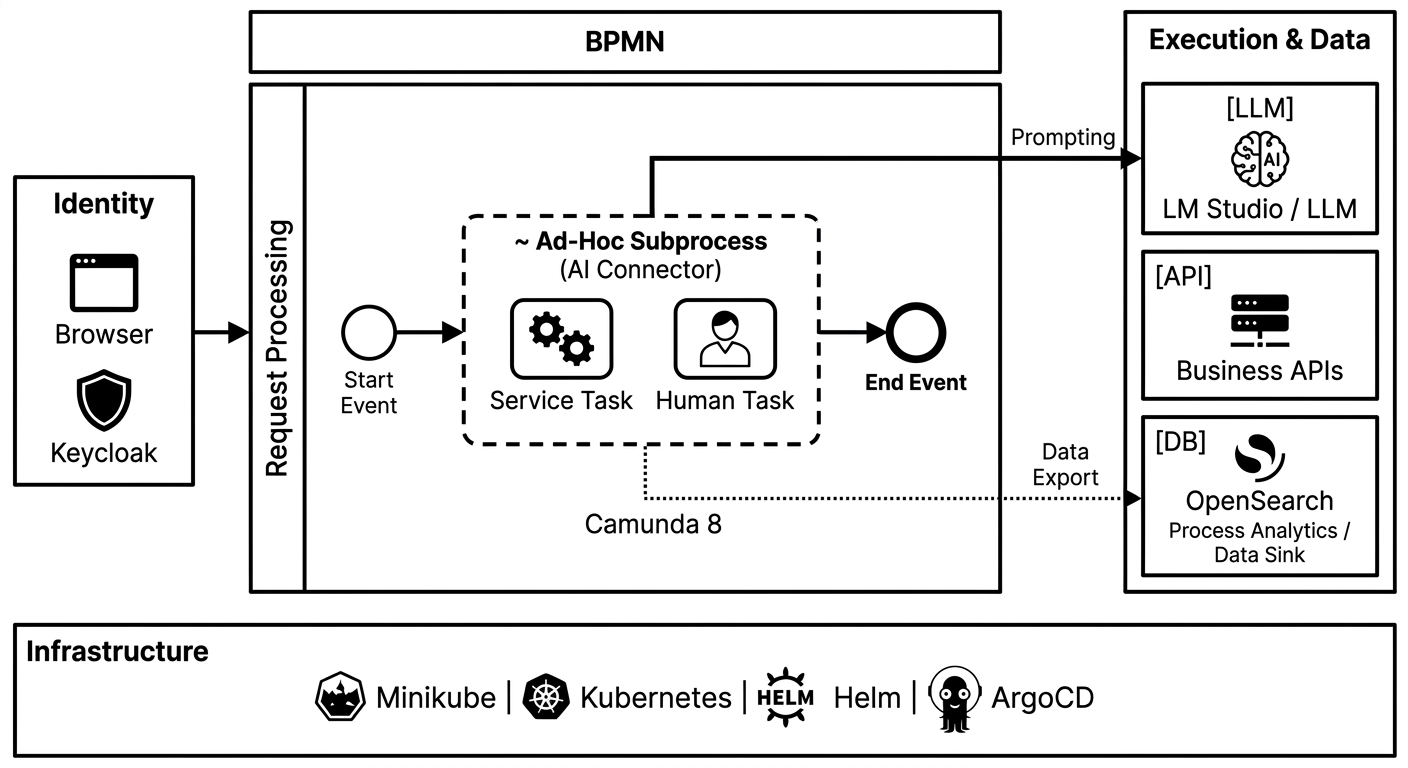
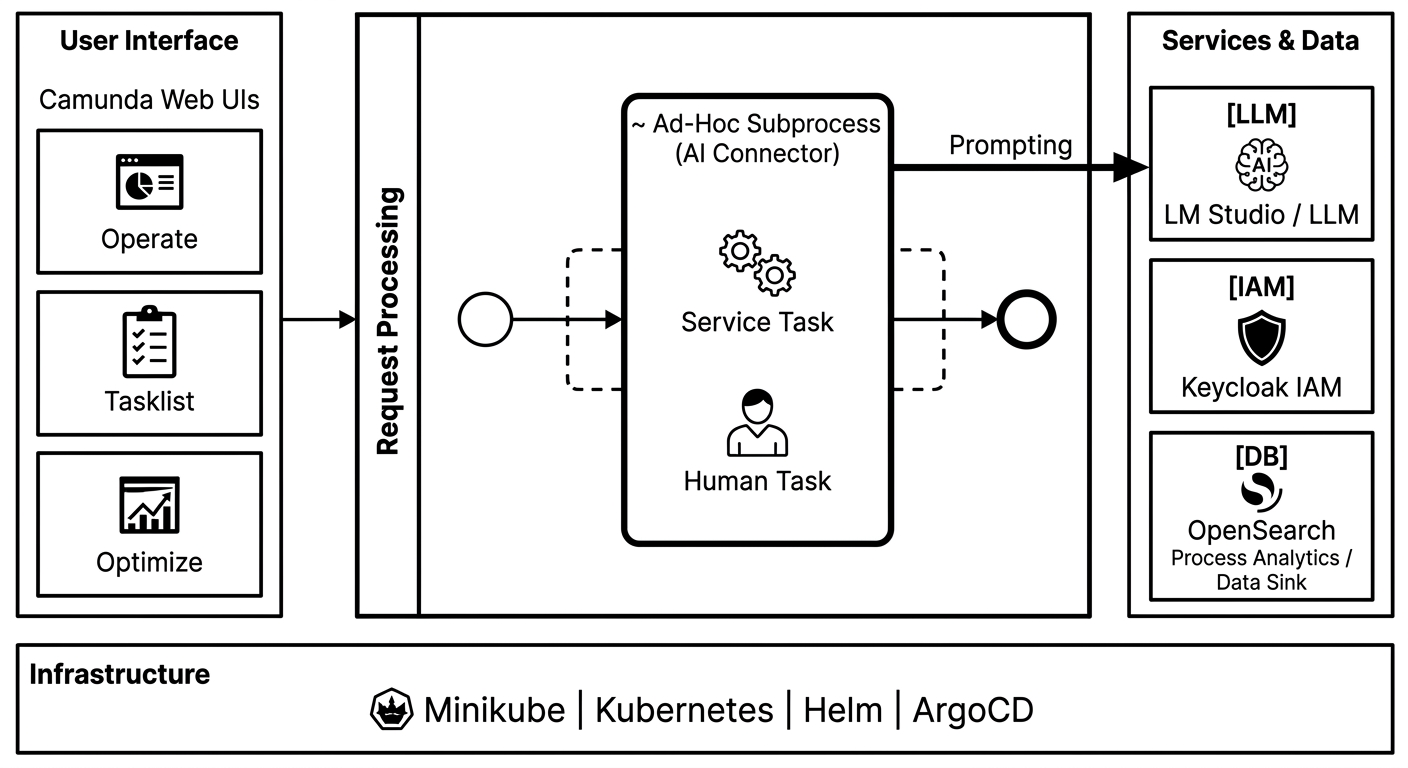
docs: refine reference architecture diagram

Changed region(s): [[0.0, 0.0, 1.0, 1.0]]

diff --git a/README.md b/README.md
@@ -12,7 +12,6 @@ The **Enterprise-Process-AI-Stack** is a reference architecture designed for hig
 This project showcases the integration of traditional process governance with modern Agentic AI, optimized for local or air-gapped environments to ensure maximum security.
 
 ![Target Architecture](docs/architecture/target_architecture.png)
-> *Note: This diagram was generated using a structured prompt found in `/docs/architecture`. It reflects the current state of the Agentic AI orchestration logic within a BPMN Pool.*
 
 ### Key Pillars:
 *   **Orchestration:** **Camunda 8 Self-Managed** (Zeebe Engine) provides the deterministic backbone and **full audit trails** for every AI decision – a hard requirement for compliance.
